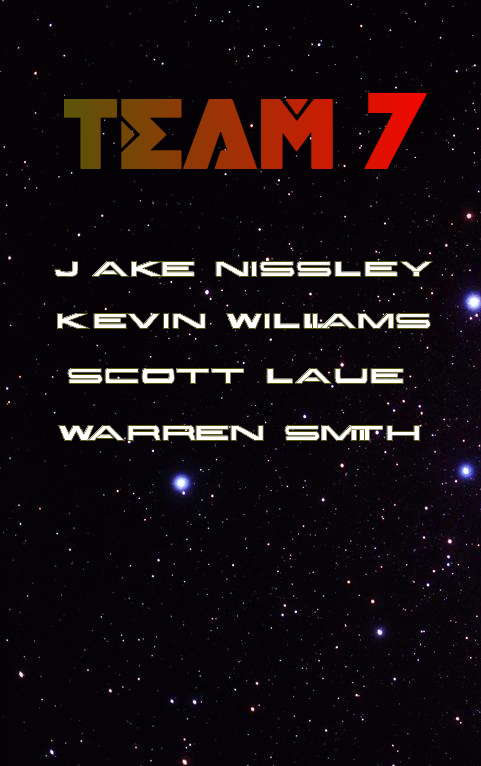
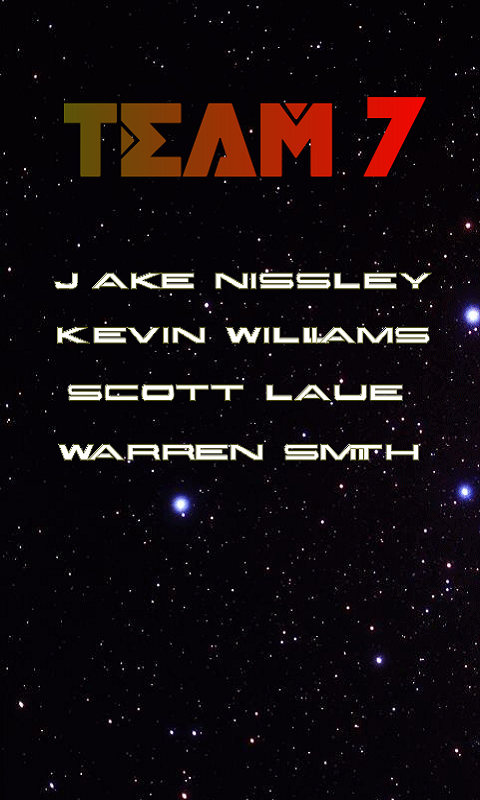
updated credits and victory screens to fit full window

diff --git a/core/src/com/github/t7/galacticfoundations/activities/MainActivity.java b/core/src/com/github/t7/galacticfoundations/activities/MainActivity.java
@@ -15,6 +15,7 @@ import com.badlogic.gdx.scenes.scene2d.Actor;
 import com.badlogic.gdx.scenes.scene2d.Event;
 import com.badlogic.gdx.scenes.scene2d.EventListener;
 import com.badlogic.gdx.scenes.scene2d.Stage;
+import com.badlogic.gdx.scenes.scene2d.Touchable;
 import com.badlogic.gdx.scenes.scene2d.actions.Actions;
 import com.badlogic.gdx.scenes.scene2d.actions.AlphaAction;
 import com.badlogic.gdx.scenes.scene2d.ui.Image;
